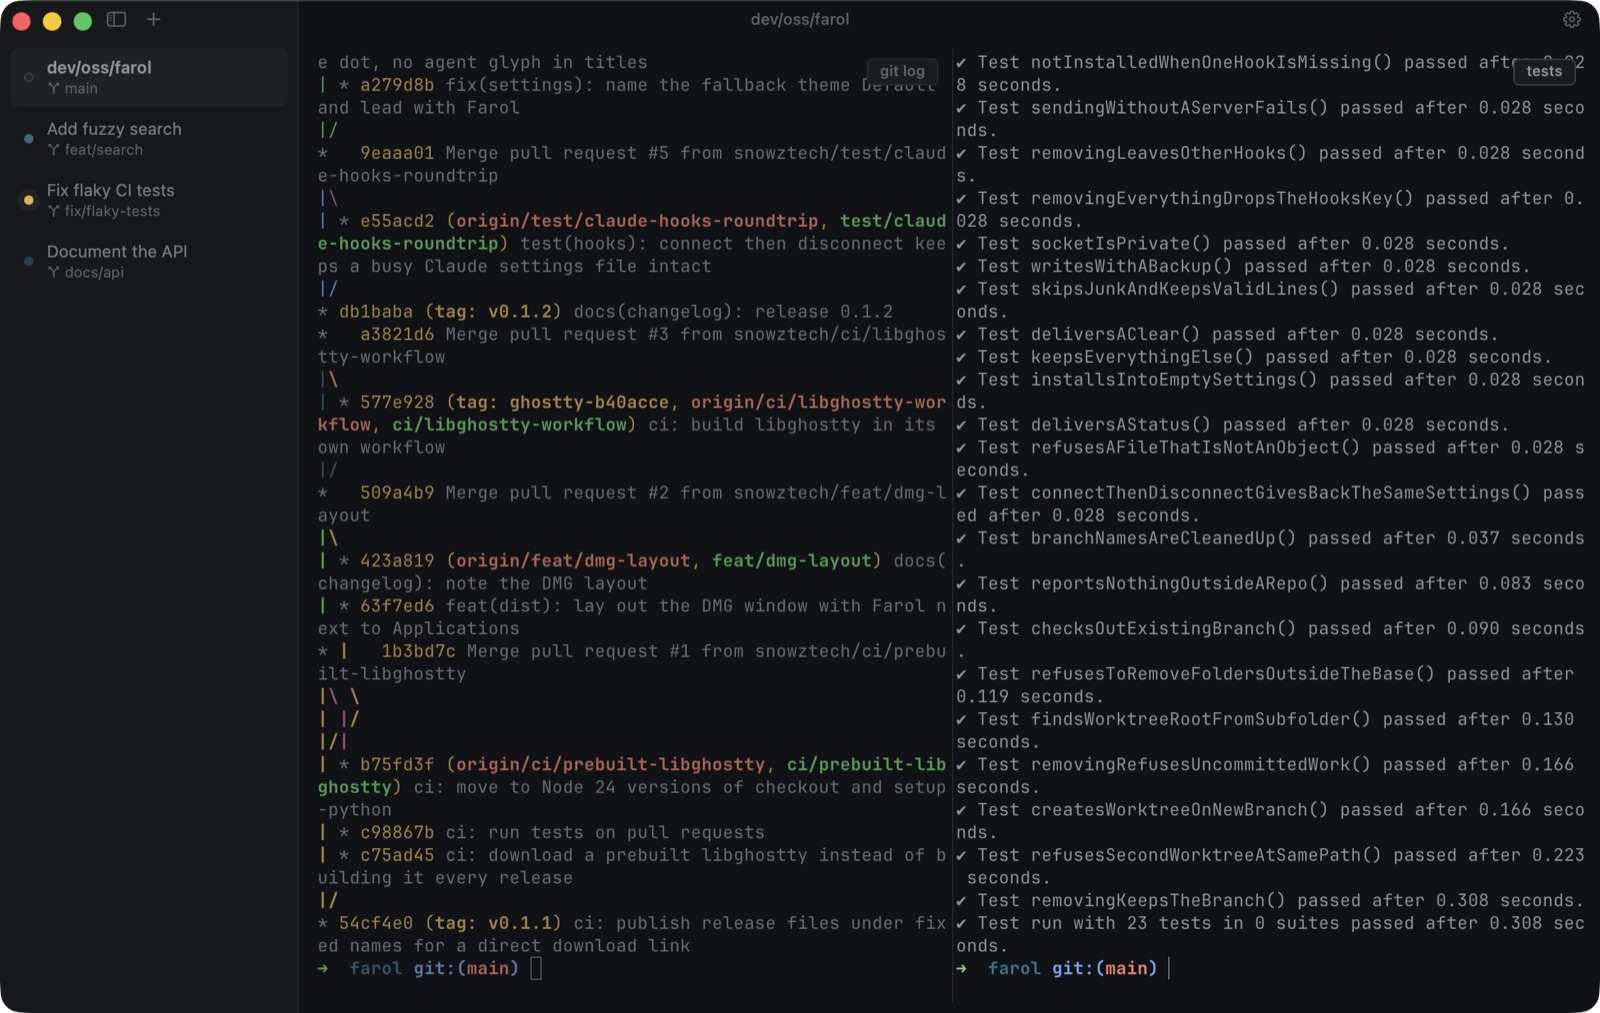
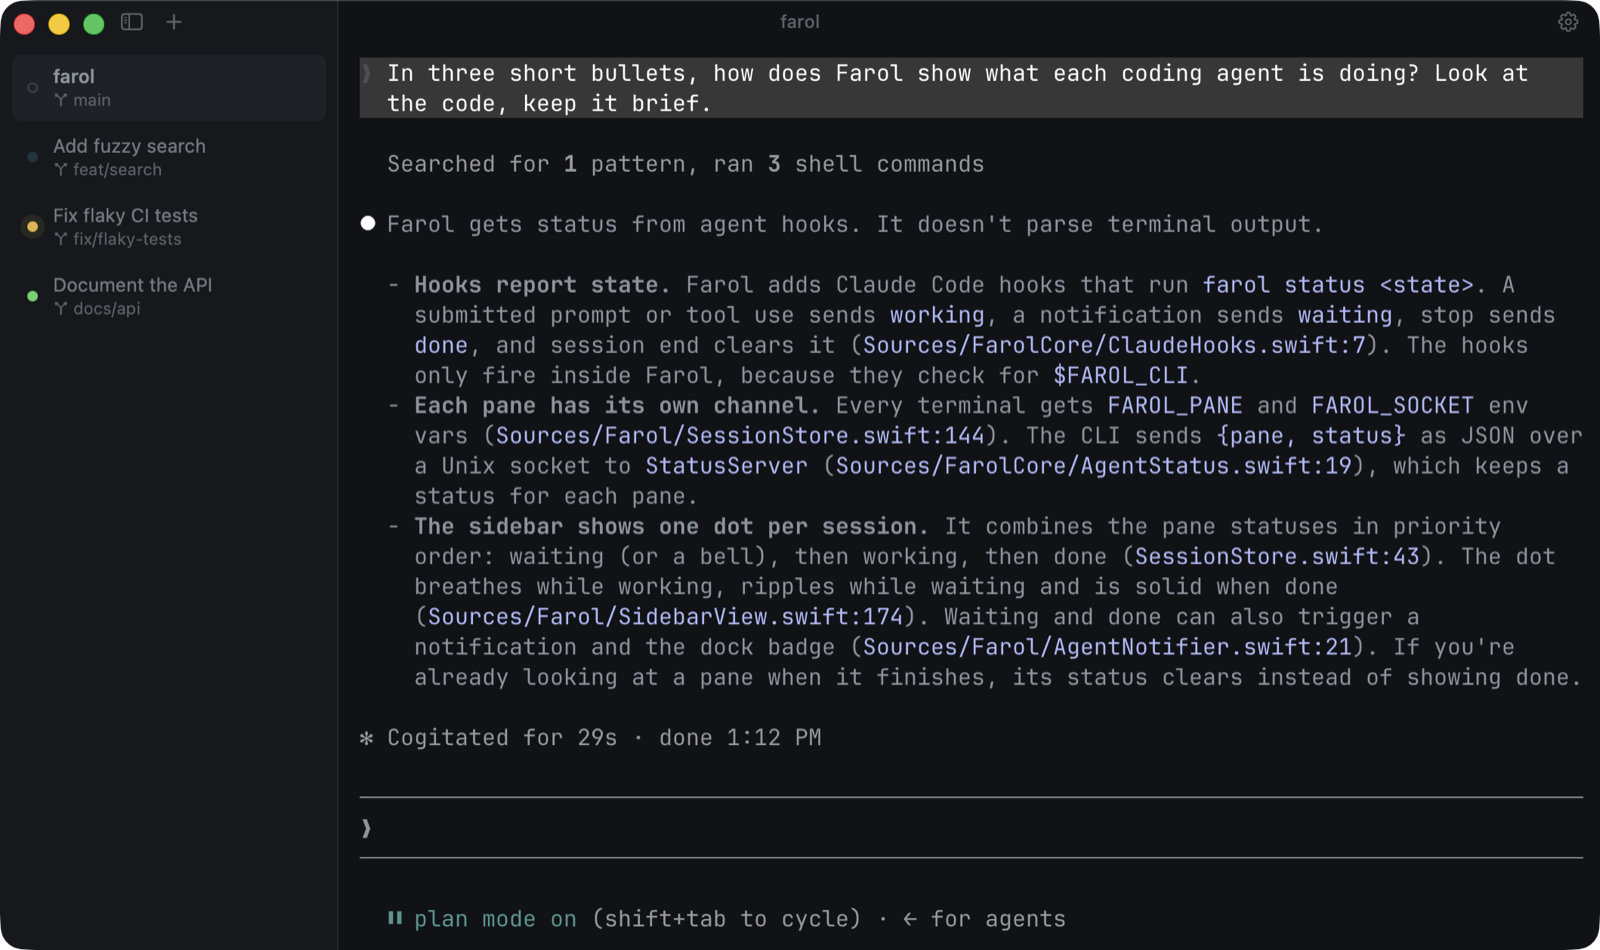
feat(site): Claude screenshot, wider showcase and three feature columns

diff --git a/site/index.html b/site/index.html
@@ -7,7 +7,8 @@
   <meta name="description" content="A fast macOS terminal for working with coding agents. Built on libghostty.">
   <meta property="og:title" content="Farol">
   <meta property="og:description" content="A fast macOS terminal for working with coding agents.">
-  <meta property="og:image" content="https://farol.snowztech.com/icon.png">
+  <meta property="og:image" content="https://farol.snowztech.com/screenshot.png">
+  <meta name="twitter:card" content="summary_large_image">
   <link rel="icon" href="icon.png">
   <link rel="stylesheet" href="https://cdn.jsdelivr.net/npm/@snowztech/ui-css@0.2/dist/snowztech-ui.min.css">
   <script>
@@ -22,33 +23,42 @@
       font-size: var(--sn-text-base);
       line-height: var(--sn-leading-normal);
     }
-    main { max-width: 640px; margin: 0 auto; padding: 96px 20px 48px; }
     a { color: inherit; }
+    .column { max-width: 640px; margin: 0 auto; padding: 0 20px; }
+    .wide { max-width: 1080px; margin: 0 auto; padding: 0 20px; }
 
-    .hero { text-align: center; }
-    .hero img { width: 112px; height: 112px; }
-    h1 { font-size: 28px; font-weight: 600; margin: 12px 0 4px; letter-spacing: -0.01em; }
-    .tagline { color: var(--sn-fg-muted); margin: 0 0 28px; }
+    .hero { text-align: center; padding-top: 104px; }
+    .hero img { width: 96px; height: 96px; }
+    h1 { font-size: 30px; font-weight: 600; margin: 14px 0 6px; letter-spacing: -0.02em; }
+    .tagline { color: var(--sn-fg-muted); margin: 0 0 30px; font-size: var(--sn-text-md); }
     .actions { display: flex; gap: 10px; justify-content: center; flex-wrap: wrap; }
     .actions .sn-btn { text-decoration: none; transition: opacity var(--sn-base) var(--sn-ease), border-color var(--sn-base) var(--sn-ease); }
     /* ui-css colors every a:hover with the accent, which wins over the button's own text color. */
     .actions a.sn-btn--primary:hover { color: var(--sn-fg-inverse); background: var(--sn-fg); border-color: var(--sn-fg); opacity: 0.85; }
     .actions a.sn-btn--secondary:hover { color: var(--sn-fg); }
-    .fine { color: var(--sn-fg-subtle); font-size: var(--sn-text-xs); margin-top: 14px; }
+    .fine { color: var(--sn-fg-subtle); font-size: var(--sn-text-xs); margin: 14px 0 0; }
 
-    .shot {
-      display: block; width: 100%; height: auto; margin: 56px 0 48px;
-      border-radius: 10px; border: 1px solid var(--sn-border);
+    /* A faint beam of light behind the window, the lighthouse without saying it. */
+    .showcase { position: relative; margin: 72px auto 88px; }
+    .showcase::before {
+      content: ""; position: absolute; inset: -12% 8% auto; height: 70%; z-index: 0;
+      background: radial-gradient(ellipse at center, var(--sn-accent-soft), transparent 70%);
+      filter: blur(24px);
     }
-    /* The page is wider than the text column, so the screenshot gets more room. */
-    @media (min-width: 900px) { .shot { width: 860px; margin-left: -110px; } }
+    .shot {
+      position: relative; z-index: 1; display: block; width: 100%; height: auto;
+      border-radius: 12px; border: 1px solid var(--sn-border-strong);
+      box-shadow: 0 30px 80px rgba(0, 0, 0, 0.45);
+    }
 
-    ul.features { list-style: none; padding: 0; margin: 0; display: grid; gap: 10px; }
-    .features b { font-weight: 500; }
-    .features span { color: var(--sn-fg-muted); }
+    .features { list-style: none; margin: 0 auto; display: grid; gap: 28px; }
+    @media (min-width: 760px) { .features { grid-template-columns: repeat(3, 1fr); } }
+    .features b { display: block; font-weight: 500; margin-bottom: 6px; }
+    .features span { color: var(--sn-fg-muted); font-size: var(--sn-text-sm); }
 
     footer {
-      margin-top: 64px; padding-top: 20px; border-top: 1px solid var(--sn-border-subtle);
+      margin: 96px auto 0; padding: 20px 20px 40px; max-width: 1040px;
+      border-top: 1px solid var(--sn-border-subtle);
       display: flex; justify-content: space-between; flex-wrap: wrap; gap: 8px;
       color: var(--sn-fg-subtle); font-size: var(--sn-text-xs);
     }
@@ -58,7 +68,7 @@
 </head>
 <body>
   <main>
-    <section class="hero">
+    <section class="hero column">
       <img src="icon.png" alt="Farol icon">
       <h1>Farol</h1>
       <p class="tagline">A fast macOS terminal for working with coding agents.</p>
@@ -69,19 +79,21 @@
       <p class="fine">Apple Silicon, macOS 14 or later. Signed and notarized. Free and open source.</p>
     </section>
 
-    <img class="shot" src="screenshot.png" width="1600" height="1013"
-         alt="Farol with four sessions in the sidebar, one agent working, one waiting and one done, and a split pane showing git log and tests">
+    <div class="showcase wide">
+      <img class="shot" src="screenshot.png" width="1600" height="950"
+           alt="Farol running Claude Code, with other agent sessions in the sidebar: one working, one waiting for you and one done">
+    </div>
 
-    <ul class="features">
-      <li><b>One worktree per agent.</b> <span>Parallel agents never touch each other's files.</span></li>
-      <li><b>Built on libghostty.</b> <span>Ghostty's speed, themes and config.</span></li>
-      <li><b>A real Mac app.</b> <span>Splits, search and settings in the app or in a file.</span></li>
+    <ul class="features wide">
+      <li><b>Every agent at a glance</b><span>The sidebar shows which agent is working, which one needs you and which one is done.</span></li>
+      <li><b>One worktree per agent</b><span>Each task gets its own branch, so agents never touch each other's files.</span></li>
+      <li><b>Built on libghostty</b><span>Ghostty's speed, themes and config, in a native Mac app.</span></li>
     </ul>
-
-    <footer>
-      <span>© 2026 Lucas Neves Pereira, <a href="https://github.com/snowztech">snowztech</a></span>
-      <span><a href="https://github.com/snowztech/farol/blob/main/CHANGELOG.md">Changelog</a> · <a href="https://github.com/snowztech/farol/blob/main/LICENSE">MIT</a></span>
-    </footer>
   </main>
+
+  <footer>
+    <span>© 2026 Lucas Neves Pereira, <a href="https://github.com/snowztech">snowztech</a></span>
+    <span><a href="https://github.com/snowztech/farol/blob/main/CHANGELOG.md">Changelog</a> · <a href="https://github.com/snowztech/farol/blob/main/LICENSE">MIT</a></span>
+  </footer>
 </body>
 </html>

diff --git a/README.md b/README.md
@@ -6,7 +6,7 @@
 
 <p align="center">A fast macOS terminal for working with coding agents.</p>
 
-<p align="center"><img src="site/screenshot.png" width="800" alt="Farol with several agent sessions and split panes"></p>
+<p align="center"><img src="site/screenshot.png" width="800" alt="Farol running Claude Code, with other agent sessions in the sidebar"></p>
 
 Run several coding agents side by side, each in its own session, and Farol shows you which one is working, which one is done and which one needs you. Farol is Portuguese for lighthouse.
 
